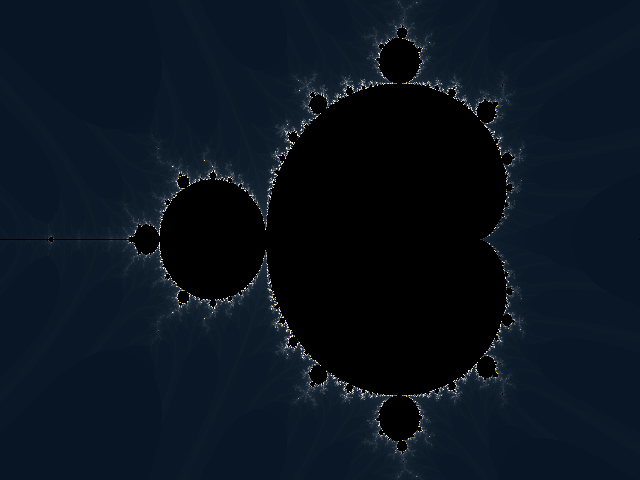
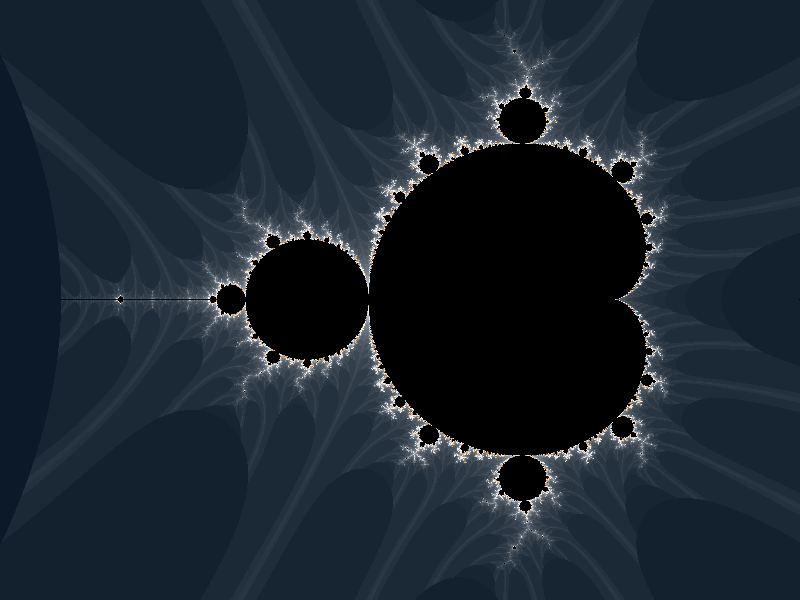
Taking size and iteration from command line

diff --git a/mandelbrot.c b/mandelbrot.c
@@ -1,16 +1,22 @@
+#import <stdlib.h>
 #import <stdio.h>
 #import <math.h>
 
-#define MAX_I           1000
-#define MAX_X           640
-#define MAX_Y           480
+#define MIN_X           -2.25
+#define MAX_X           1.0
+#define MIN_Y           -1.25
+#define MAX_Y           1.25
 
-#define PALETTE_SIZE    500
+#define COLORS          250
 #define START_COLOR     {   3,  18,  33 }
 #define MIDDLE_COLOR    { 255, 255, 255 }
-#define END_COLOR       { 254, 180,  28 }
+#define END_COLOR       { 144,  82,  13 }
 
-int lasty = 1;
+typedef struct {
+  int screenX;
+  int screenY;
+  int iterations;
+} Config;
 
 typedef struct {
     float red;
@@ -18,21 +24,12 @@ typedef struct {
     float blue;
 } Color;
 
-void paletteFromTo(Color colstart, Color colend, Color palette[], int start, int max);
-void generatePalette(Color palette[]);
-void initPPM();
-void plot(int x, int y, Color c); 
 
-void generatePalette(Color palette[]) {
-    Color start = START_COLOR;
-    Color middle = MIDDLE_COLOR;
-    Color end = END_COLOR;
-    
-    paletteFromTo(start, middle, palette, 0, PALETTE_SIZE / 2);
-    paletteFromTo(middle, end, palette, PALETTE_SIZE / 2, PALETTE_SIZE);
+void usage(char filename[]) {
+    printf("usage: %s x y iterations", filename);
 }
 
-void paletteFromTo(Color colstart, Color colend, Color palette[], int start, int max) {
+void palette_from_to(Color palette[], Color colstart, Color colend, int start, int max) {
     int cnt = max - start;
     float rfact = (float)(colend.red - colstart.red) / cnt;
     float gfact = (float)(colend.green - colstart.green) / cnt;
@@ -45,47 +42,65 @@ void paletteFromTo(Color colstart, Color colend, Color palette[], int start, int
         float blue = (float)colstart.blue + bfact * (float)i;
         Color current = { red, green, blue };
         palette[start+i-1] = current;
-        //printf("%f %f %f\n", current.red, current.green, current.blue);
     }
 }
 
-void initPPM() {
-    // # The P3 means colors are in ASCII, then x columns and y rows,
-    // then 255 for max color
+void palette_generate(Color palette[]) {
+    Color start = START_COLOR;
+    Color middle = MIDDLE_COLOR;
+    Color end = END_COLOR;
+    
+    palette_from_to(palette, start, middle, 0, COLORS / 4);
+    palette_from_to(palette, middle, end, COLORS / 4, COLORS);
+}
+
+void init_ppm(Config conf) {
+    // Line 1: P3 means colors are in ASCII
+    // Line 2: Resolution for X Y,
+    // Line 3: Colors 255 per channel
     printf("P3\n");
-    printf("%d %d\n", (int)MAX_X, (int)MAX_Y);
+    printf("%d %d\n", conf.screenX, conf.screenY);
     printf("255\n");
 }
 
 void plot(int x, int y, Color c) {
-    if(lasty != y) {
-        printf("\n");
-        lasty = y;
-    }
     printf("%03d %03d %03d ", (int)(c.red), (int)(c.green), (int)(c.blue));
 }
 
-int main() {
+
+int main(int argc, char *argv[]) {
     int sy, sx;
     
-    Color palette[PALETTE_SIZE];
-    generatePalette(palette);
-    initPPM();
-        
-    for(sy = 1; sy <= MAX_Y; sy++) {
-        for(sx = 1; sx <= MAX_X; sx++) {
+    if(argc != 4) {
+      usage(argv[0]);
+      return 1;
+    }
+
+    Config conf = { atoi(argv[1]), atoi(argv[2]), atoi(argv[3]) };
+
+    if(conf.screenX == 0 || conf.screenY == 0 || conf.iterations == 0) {
+      usage(argv[0]);
+      return 1;
+    }
+
+    Color palette[COLORS];
+    palette_generate(palette);
+    init_ppm(conf);
+   
+    float xrange = MAX_X - MIN_X;
+    float yrange = MAX_Y - MIN_Y;
+    
+    for(sy = 1; sy <= conf.screenY; sy++) {
+        for(sx = 1; sx <= conf.screenX; sx++) {
             float x, y;
             x = 0.0;
             y = 0.0;
             
-            // x min -2.5, max 1.0
-            // y min -1.0, max 1.0
-
-            float x0 = (sx / (float)MAX_X * 3) - 2;
-            float y0 = (sy / (float)MAX_Y * 2.0) - 1.0;
-           
+            float x0 = sx / (float)conf.screenX * xrange + MIN_X; 
+            float y0 = sy / (float)conf.screenY * yrange + MIN_Y; 
+        
             int i = 0;
-            while(((x*x - y*y) < (2*2)) && i < MAX_I) {
+            while(((x*x - y*y) < (2*2)) && i < conf.iterations) {
                 float xtmp;
                 xtmp = x*x - y*y + x0;
                 y = 2*x*y + y0;
@@ -95,10 +110,12 @@ int main() {
             
             Color c = { 0, 0, 0 };
             if((x*x + y*y) > (2*2)) {
-                c = palette[i % PALETTE_SIZE];
+                c = palette[i % COLORS];
             }
             plot(sx, sy, c);
         }
+
+        printf("\n");
     }
     
     return 0;
